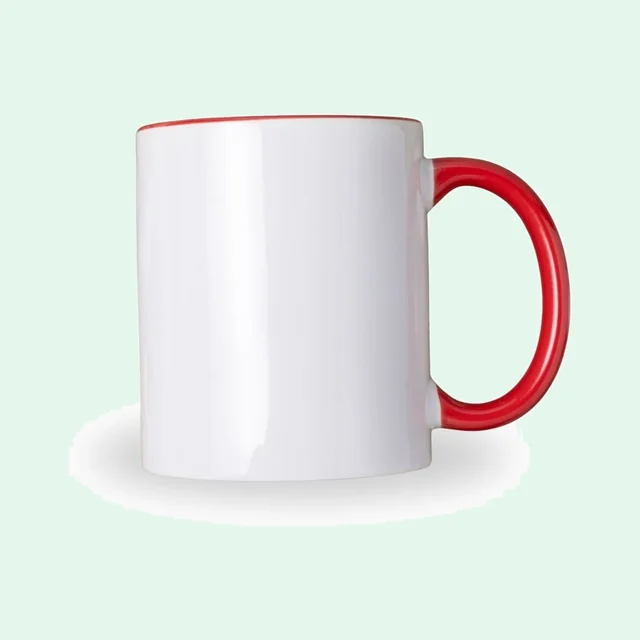
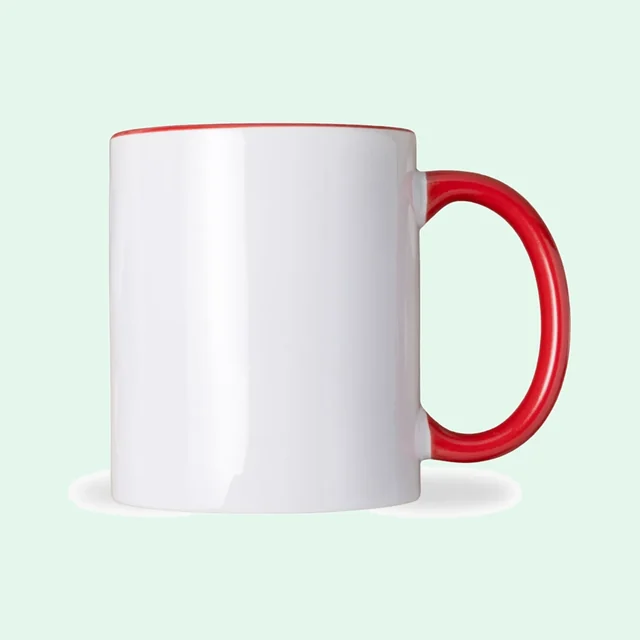
feat(mockups): Two-Tone Mug previews from the founder's real photos
The front view was faked from the side view by erasing the handle and
desaturating the body. The founder supplied real fronts, so that goes.

- right/left: the new side photo, as supplied and flipped
- front: a real photo of the mug with the handle behind it
- side and front are framed differently, so each has its own measured
  body and outline (fitted within ~2 px)
- home placeholder rebuilt from the new side photo

The blanket and in-hands shots are not built: the blanket mug lies at
about 35 degrees and the preview assumes an upright mug.

Claude-Session: https://claude.ai/code/session_01MWfAbpYYRhA2D8jn7o3AQ5

diff --git a/src/features/editor/mockup/specs.ts b/src/features/editor/mockup/specs.ts
@@ -186,17 +186,16 @@ const STUDIO = {
  * first, then the front and the other side, then the lifestyle shots.
  */
 /**
- * Two-Tone Mug (founder's photos, Oct 2026): a white body with a coloured rim,
- * handle and inside, in red, blue and black. The three studio shots are the
- * same render in three colours — identical body pixels — so one set of
- * measurements serves all of them.
- *
- * `twotone-left-*` is the supplied photo flipped and `twotone-front-*` has the
- * handle taken out, both written by `python3 scripts/mockup-twotone.py`.
+ * Two-Tone Mug (founder's studio photos, Oct 2026): a white body with a
+ * coloured rim, handle and inside, in red, blue and black. Within each set
+ * the three colours are the same shot, so one set of measurements serves all
+ * of them. `twotone-left-*` is the side photo flipped; everything else is the
+ * photo as supplied (`python3 scripts/mockup-twotone.py`).
  *
  * This mug's rim and base are ellipses rather than the gentle curve `sag`
- * models (its rim rises steeply at the silhouette), so each view carries a
- * measured `outline` and `sag` is only kept for reference.
+ * models (the rim rises steeply at the silhouette), so each view carries a
+ * measured `outline`, fitted to the photo within ~2 px. `sag` is the fitted
+ * ellipse half-height, kept for reference; `outline` is what places the print.
  */
 const TWOTONE_STUDIO = {
   widthPx: 1080,
@@ -204,59 +203,93 @@ const TWOTONE_STUDIO = {
   // Same 11oz cup as the Custom Mug; Printful's approximate size, vendor to confirm.
   geometry: { diameterMm: 83 },
   mugHeightMm: 96,
-  // Half-heights of the fitted rim and base ellipses (centre vs silhouette).
-  sag: { rim: -19, base: 28 },
   credit: "Founder (Canva)",
 } as const;
 
-/** Body silhouette on the supplied photo, and on the flipped copy. */
-const TWOTONE_BODY = { left: 259, right: 746, top: 234, bottom: 842 } as const;
-const TWOTONE_BODY_FLIPPED = {
-  left: 333,
-  right: 820,
-  top: 234,
-  bottom: 842,
-} as const;
+const flipX = ([x, y]: Point): Point => [1079 - x, y];
+const flipOutline = (o: Outline): Outline => ({
+  top: o.top.map(flipX).reverse(),
+  bottom: o.bottom.map(flipX).reverse(),
+});
 
-/** Rim and base edges, fitted to the photo as ellipses (max error ~4 px). */
-const TWOTONE_OUTLINE: Outline = {
+/** Side view: handle on the right. */
+const TWOTONE_SIDE_BODY = {
+  left: 262,
+  right: 745,
+  top: 233,
+  bottom: 839,
+} as const;
+const TWOTONE_SIDE_OUTLINE: Outline = {
   top: [
-    [259, 253.1],
-    [300, 242.8],
-    [340, 239.2],
-    [381, 236.9],
-    [421, 235.5],
-    [462, 234.7],
-    [502, 234.4],
-    [543, 234.7],
-    [584, 235.5],
-    [624, 236.9],
-    [665, 239.2],
-    [705, 242.8],
-    [746, 253.1],
+    [262, 250.8],
+    [302, 240.9],
+    [342, 237.5],
+    [383, 235.3],
+    [423, 234.0],
+    [463, 233.2],
+    [504, 232.9],
+    [544, 233.2],
+    [584, 234.0],
+    [624, 235.3],
+    [664, 237.5],
+    [705, 240.9],
+    [745, 250.8],
   ],
   bottom: [
-    [259, 813.3],
-    [300, 828.9],
-    [340, 834.3],
-    [381, 837.7],
-    [421, 839.9],
-    [462, 841.1],
-    [502, 841.5],
-    [543, 841.1],
-    [584, 839.9],
-    [624, 837.7],
-    [665, 834.3],
-    [705, 828.9],
-    [746, 813.3],
+    [262, 811.5],
+    [302, 826.8],
+    [342, 832.1],
+    [383, 835.4],
+    [423, 837.6],
+    [463, 838.8],
+    [504, 839.1],
+    [544, 838.8],
+    [584, 837.6],
+    [624, 835.4],
+    [664, 832.1],
+    [705, 826.8],
+    [745, 811.5],
   ],
 };
-/** The same edge on the flipped copy of the photo (1080 px wide). */
-const flipX = ([x, y]: Point): Point => [1079 - x, y];
 
-const TWOTONE_OUTLINE_FLIPPED: Outline = {
-  top: TWOTONE_OUTLINE.top.map(flipX).reverse(),
-  bottom: TWOTONE_OUTLINE.bottom.map(flipX).reverse(),
+/** Front view: a photo of the mug with the handle behind it, not retouched. */
+const TWOTONE_FRONT_BODY = {
+  left: 266,
+  right: 741,
+  top: 230,
+  bottom: 835,
+} as const;
+const TWOTONE_FRONT_OUTLINE: Outline = {
+  top: [
+    [266, 248.6],
+    [306, 238.5],
+    [345, 235.0],
+    [385, 232.8],
+    [424, 231.4],
+    [464, 230.6],
+    [504, 230.3],
+    [543, 230.6],
+    [583, 231.4],
+    [622, 232.8],
+    [662, 235.0],
+    [701, 238.5],
+    [741, 248.6],
+  ],
+  bottom: [
+    [266, 811.1],
+    [306, 824.5],
+    [345, 829.2],
+    [385, 832.1],
+    [424, 834.0],
+    [464, 835.1],
+    [504, 835.4],
+    [543, 835.1],
+    [583, 834.0],
+    [622, 832.1],
+    [662, 829.2],
+    [701, 824.5],
+    [741, 811.1],
+  ],
 };
 
 const TWOTONE_COLOURS = ["red", "blue", "black"] as const;
@@ -270,8 +303,9 @@ const TWOTONE_SPECS: MockupSpec[] = TWOTONE_COLOURS.flatMap((colour) => [
     side: "right",
     colour,
     src: `/mockups/twotone-right-${colour}.webp`,
-    body: TWOTONE_BODY,
-    outline: TWOTONE_OUTLINE,
+    body: TWOTONE_SIDE_BODY,
+    outline: TWOTONE_SIDE_OUTLINE,
+    sag: { rim: -18, base: 28 },
   },
   {
     ...TWOTONE_STUDIO,
@@ -281,8 +315,9 @@ const TWOTONE_SPECS: MockupSpec[] = TWOTONE_COLOURS.flatMap((colour) => [
     side: "right",
     colour,
     src: `/mockups/twotone-front-${colour}.webp`,
-    body: TWOTONE_BODY,
-    outline: TWOTONE_OUTLINE,
+    body: TWOTONE_FRONT_BODY,
+    outline: TWOTONE_FRONT_OUTLINE,
+    sag: { rim: -18, base: 24 },
     geometry: { diameterMm: 83, handleAngleDeg: 180 },
   },
   {
@@ -292,8 +327,14 @@ const TWOTONE_SPECS: MockupSpec[] = TWOTONE_COLOURS.flatMap((colour) => [
     side: "left",
     colour,
     src: `/mockups/twotone-left-${colour}.webp`,
-    body: TWOTONE_BODY_FLIPPED,
-    outline: TWOTONE_OUTLINE_FLIPPED,
+    body: {
+      left: 1079 - TWOTONE_SIDE_BODY.right,
+      right: 1079 - TWOTONE_SIDE_BODY.left,
+      top: TWOTONE_SIDE_BODY.top,
+      bottom: TWOTONE_SIDE_BODY.bottom,
+    },
+    outline: flipOutline(TWOTONE_SIDE_OUTLINE),
+    sag: { rim: -18, base: 28 },
   },
 ]);
 

diff --git a/scripts/mockup-twotone.py b/scripts/mockup-twotone.py
@@ -1,49 +1,45 @@
 #!/usr/bin/env python3
 """
-Two-Tone Mug preview photos, built from the founder's three studio shots.
+Two-Tone Mug preview photos, from the founder's studio shots (Oct 2026).
 
-  python3 scripts/mockup-twotone.py <source-dir> [--out public/mockups]
+  python3 scripts/mockup-twotone.py <side-dir> <front-dir> [--out public/mockups]
 
-The founder supplied one studio view per colour (white body, coloured rim,
-handle and inside; handle on the RIGHT). Expected file names in <source-dir>:
+The founder supplied two sets (the "Mug Mockup Instagram Story" 6 and 7 zips).
+Both number their files from the same range, so they stay in separate folders:
 
-  61.jpg red   62.jpg blue   63.jpg black
+  <side-dir>   63 red   64 blue   65 black   side views, handle RIGHT, white bg
+               56 red   57 blue   58 black   on a cream knit blanket
+  <front-dir>  65 red   66 blue   64 black   front views, handle hidden
+               70 red                        held in both hands
 
-The founder's paired shots (57/58/59) and the mug on knit fabric (56) are not
-built here yet: a pair shows both halves of the wrap at once, which needs the
-preview engine to compose two mugs in one photo.
+This writes, per colour:
 
-From each studio shot this writes the three views the preview needs:
+  twotone-right-<c>.webp   the side view as supplied (handle right)
+  twotone-left-<c>.webp    the side view flipped (handle left)
+  twotone-front-<c>.webp   the front view (handle behind the mug)
 
-  twotone-right-<c>.webp  the photo as supplied (handle right)
-  twotone-left-<c>.webp   mirrored (handle left)
-  twotone-front-<c>.webp  handle removed, so the handle can sit behind the mug
-                          (`handleAngleDeg: 180`); everything right of the body
-                          is replaced by the mirrored background from the left,
-                          which carries the matching drop shadow
+The blanket and in-hands shots are NOT built yet. The preview wraps a design
+by reading each photo column as an angle around an upright mug: the blanket
+mug lies at about 35 degrees, so its silhouettes are diagonal and the model
+does not fit, and the in-hands mug needs its rim and base measured by hand
+(the fingers are the same smooth white as the ceramic). See
+docs/ops/mockup-assets.md.
 
-The three studio shots are the same render in three colours (identical body
-pixels), so one set of measurements serves all of them: see TWOTONE_STUDIO in
-src/features/editor/mockup/specs.ts.
+Within each set the colours are the same shot, so one set of measurements
+serves all three (see the TWOTONE_* constants in mockup/specs.ts).
 """
 import argparse
 from pathlib import Path
 
-import numpy as np
 from PIL import Image
 
-# Body silhouette on the studio shots, measured once (all three are identical).
-BODY_LEFT, BODY_RIGHT = 259, 746
-#: First column past the body: everything from here right is handle.
-HANDLE_FROM = 747
-#: Sample the replacement background this much further out, so the body's own
-#: left silhouette is not mirrored back in as a ghost edge.
-MIRROR_OFFSET = 28
-#: Below this row the glossy body reflects the handle; desaturated for the
-#: front view. Above it is the rim and the coloured inside, which stay.
-REFLECTION_FROM = 275
-
-COLOURS = {"red": "61", "blue": "62", "black": "63"}
+#: <side-dir> stems. FABRIC and HANDS are the founder's lifestyle shots,
+#: kept here as the record of which file is which; not built yet (see above).
+SIDE = {"red": "63", "blue": "64", "black": "65"}
+FABRIC = {"red": "56", "blue": "57", "black": "58"}
+#: <front-dir> stems.
+FRONT = {"red": "65", "blue": "66", "black": "64"}
+HANDS = {"red": "70"}
 
 
 def save(im: Image.Image, path: Path, quality: int = 82) -> None:
@@ -51,44 +47,35 @@ def save(im: Image.Image, path: Path, quality: int = 82) -> None:
     print(f"  {path.name}  {path.stat().st_size // 1024} KB")
 
 
-def drop_handle(im: Image.Image) -> Image.Image:
-    """
-    The front view: the handle sits behind the mug, so it is taken out of the
-    photo. Two steps, because erasing the handle alone leaves it visible:
-    the handle side is replaced by the mirrored background from the left (which
-    carries the matching drop shadow), and the body is desaturated below the
-    rim, where the glossy ceramic reflects the handle as a coloured edge.
-    """
-    a = np.asarray(im).astype(np.float32)
-    h, w, _ = a.shape
-    out = a.copy()
-    for x in range(HANDLE_FROM, w):
-        mx = BODY_LEFT + BODY_RIGHT - x - MIRROR_OFFSET
-        out[:, x] = a[:, mx] if 0 <= mx < w else 255.0
-
-    grey = (0.299 * out[:, :, 0] + 0.587 * out[:, :, 1] + 0.114 * out[:, :, 2])
-    band = np.zeros((h, w, 1), np.float32)
-    band[:, BODY_LEFT:HANDLE_FROM] = 1.0
-    # Ramp in over 20 px so the rim's colour is not clipped by a hard line.
-    ramp = np.clip((np.arange(h) - REFLECTION_FROM) / 20.0, 0, 1)[:, None, None]
-    f = ramp * band
-    out = out * (1 - f) + grey[:, :, None] * f
-    return Image.fromarray(out.clip(0, 255).astype(np.uint8))
+def load(folder: Path, stem: str) -> Image.Image:
+    for ext in (".png", ".jpg", ".jpeg", ".webp"):
+        p = folder / f"{stem}{ext}"
+        if p.exists():
+            return Image.open(p).convert("RGB")
+    raise SystemExit(f"{folder}/{stem}.(png|jpg) not found")
 
 
 def main() -> None:
     ap = argparse.ArgumentParser()
-    ap.add_argument("source", type=Path, help="folder with the founder's jpgs")
+    ap.add_argument("side", type=Path, help="folder with the side + blanket shots")
+    ap.add_argument("front", type=Path, help="folder with the front + in-hands shots")
     ap.add_argument("--out", type=Path, default=Path("public/mockups"))
     args = ap.parse_args()
     args.out.mkdir(parents=True, exist_ok=True)
 
-    for colour, stem in COLOURS.items():
-        im = Image.open(args.source / f"{stem}.jpg").convert("RGB")
-        print(f"{colour}: {stem}.jpg {im.size}")
+    for colour, stem in SIDE.items():
+        im = load(args.side, stem)
+        print(f"{colour} side: {stem} {im.size}")
         save(im, args.out / f"twotone-right-{colour}.webp")
-        save(im.transpose(Image.FLIP_LEFT_RIGHT), args.out / f"twotone-left-{colour}.webp")
-        save(drop_handle(im), args.out / f"twotone-front-{colour}.webp")
+        save(
+            im.transpose(Image.FLIP_LEFT_RIGHT),
+            args.out / f"twotone-left-{colour}.webp",
+        )
+
+    for colour, stem in FRONT.items():
+        im = load(args.front, stem)
+        print(f"{colour} front: {stem}")
+        save(im, args.out / f"twotone-front-{colour}.webp")
 
 
 if __name__ == "__main__":

diff --git a/docs/ops/mockup-assets.md b/docs/ops/mockup-assets.md
@@ -12,21 +12,25 @@ Preview mockups wrap the customer's design around a photo of the product
 | `public/mockups/mug-flatlay.webp`   | Flat lay on a desk with props, from above     | Canva  |
 
 **Two-Tone Mug** (white body, coloured rim, handle and inside; red, blue, black):
-`twotone-right-<c>.webp`, `twotone-front-<c>.webp`, `twotone-left-<c>.webp`.
-The founder supplied one studio shot per colour with the handle on the right;
-`python3 scripts/mockup-twotone.py <source-dir>` writes all nine — right is the
-photo as supplied, left is it flipped, and front has the handle taken out (the
-handle side is replaced by the mirrored background from the left, and the body
-is desaturated below the rim, where the glossy ceramic reflects the handle).
-The three colours are the same render, so one set of measurements serves all of
-them (`TWOTONE_STUDIO` in `mockup/specs.ts`). Unlike the Custom Mug, this mug's
-rim and base are ellipses rather than the gentle curve `sag` models, so each
-view carries a measured `outline` (fitted, max error ~4 px).
+`twotone-right-<c>.webp`, `twotone-front-<c>.webp`, `twotone-left-<c>.webp`, built by
+`python3 scripts/mockup-twotone.py <side-dir> <front-dir>` from the founder's two sets
+(the "Mug Mockup Instagram Story" 6 and 7 zips, Oct 2026 — both number their files from
+the same range, so they stay in separate folders). Right is the side photo as supplied,
+left is it flipped, front is a real photo of the mug with its handle behind it. Within
+each set the three colours are the same shot, so one set of measurements serves all of
+them. Unlike the Custom Mug, this mug's rim and base are ellipses rather than the gentle
+curve `sag` models, so each view carries a measured `outline` fitted to the photo
+within ~2 px; side and front are framed differently and have one each.
 
-Not built yet: the founder's paired shots (two mugs on a patterned background)
-and the mug on knit fabric. A pair should show the left half of the wrap on the
-left mug and the right half on the right one, which needs the engine to compose
-two mugs in one photo (`MockupSpec` has one `body`).
+Supplied but **not built yet** (the file names are recorded in the script):
+
+- _On a knit blanket_, one per colour. The mug lies at about 35°, so its silhouettes are
+  diagonal. The preview reads each photo column as an angle around an **upright** mug, so
+  the model does not fit: the design would shear. Either straighten the photo (which
+  re-frames the shot) or teach the engine a tilted mug.
+- _Held in both hands_, red only. The mug is upright, so this one only needs its rim and
+  base measured by hand — the fingers are the same smooth white as the ceramic, so the
+  automatic keying merges them.
 
 | `public/mockups/tshirt-front.webp` | T-shirt: the editor background without guides (default / main picture) | Founder-supplied |
 | `public/mockups/hoodie-front.webp` | Hoodie: white, on pink (preview). Print box x 320-725, y 365-662 = 300 x 220 mm | Founder-supplied |
